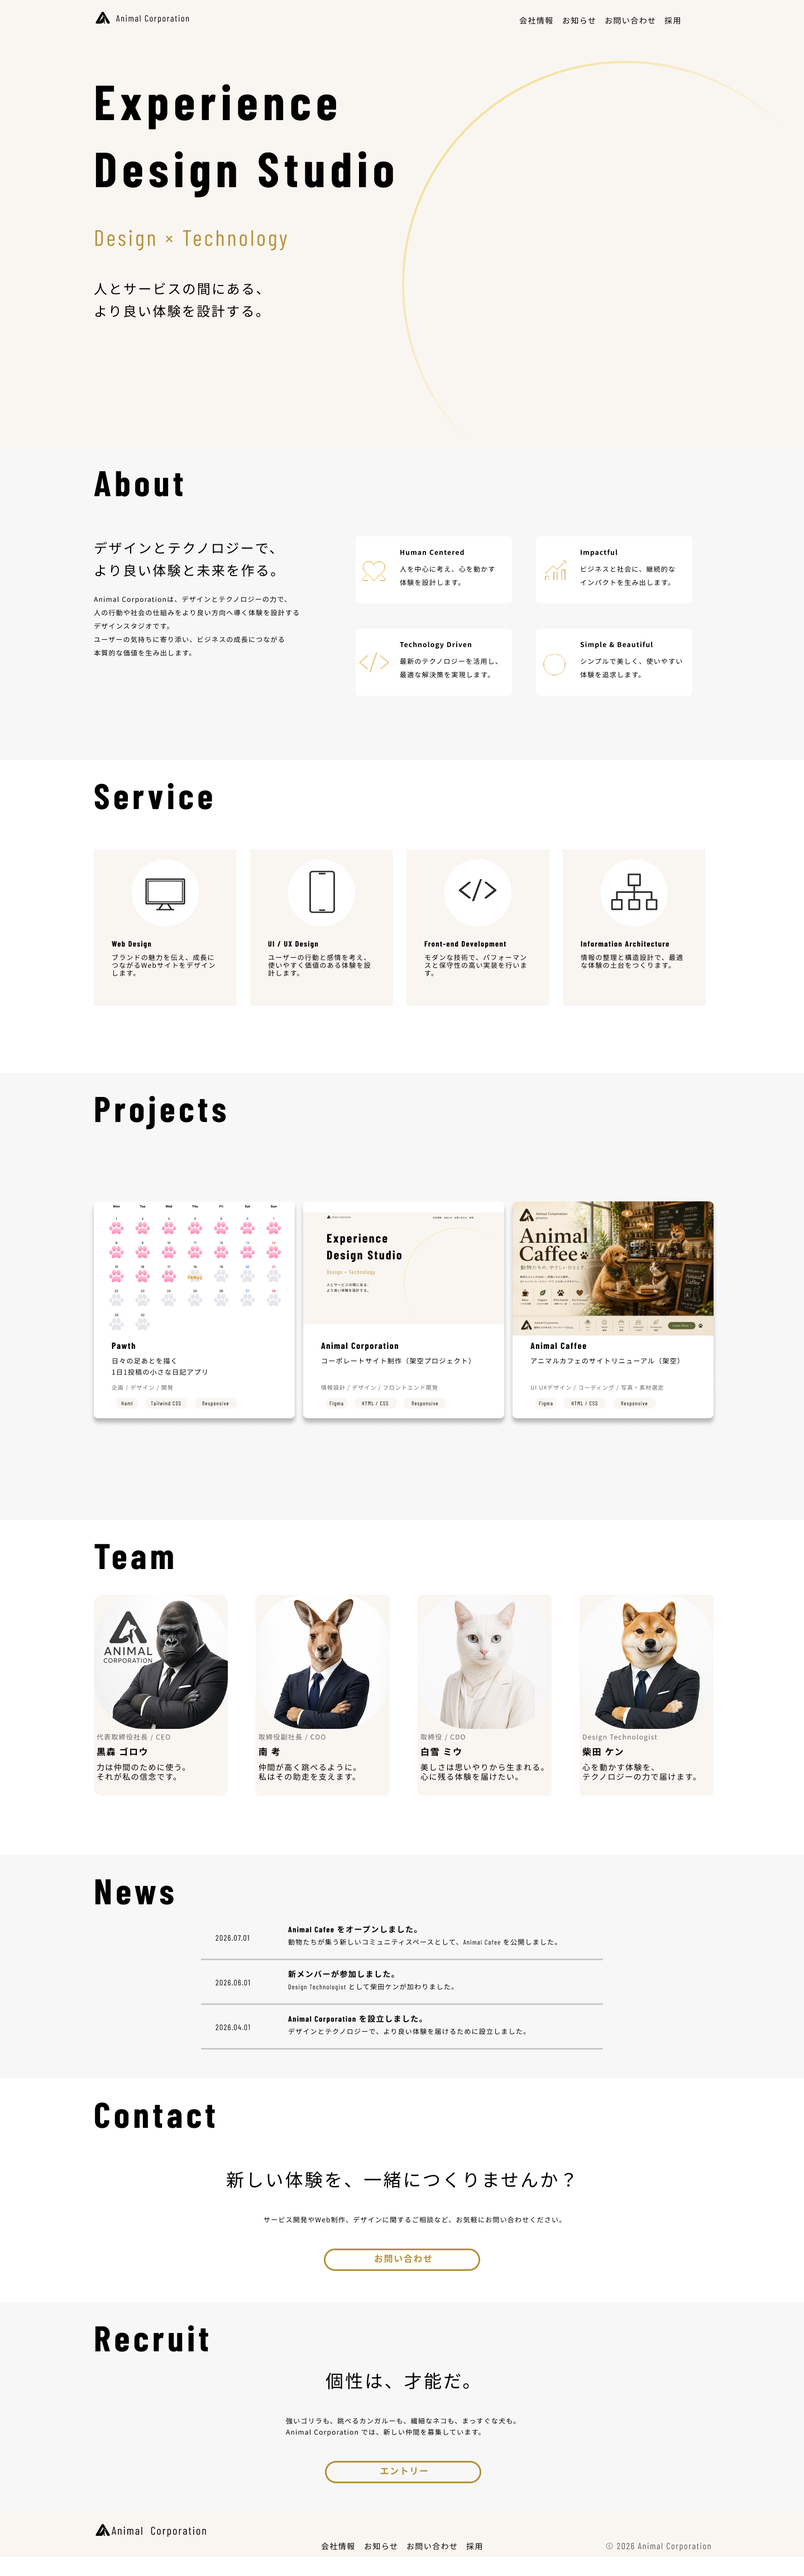
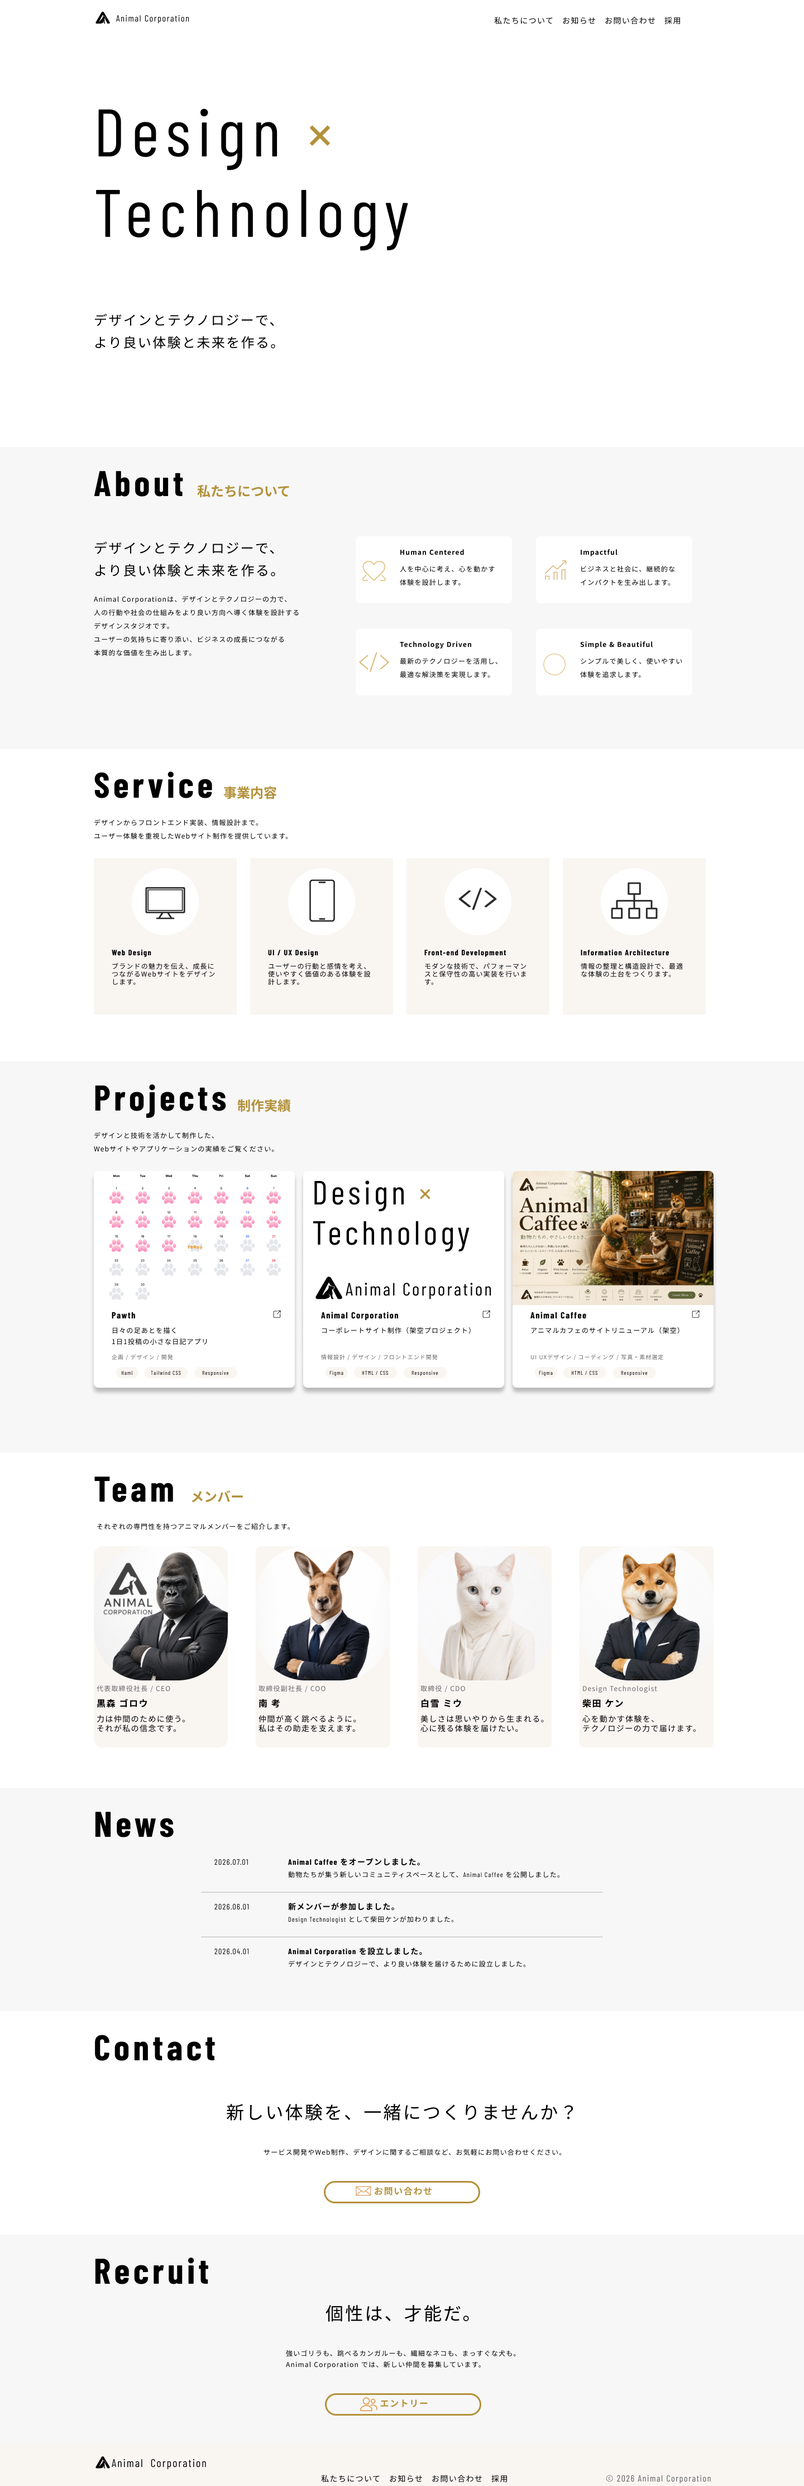
モックアップを更新

diff --git a/README.md b/README.md
@@ -2,6 +2,14 @@
 
 架空企業をテーマに制作するコーポレートサイトのデモプロジェクトです。
 
+## Overview
+
+架空のデザイン・テクノロジー企業「Animal Corporation」をテーマに制作したコーポレートサイトです。
+
+情報設計からワイヤーフレーム作成、モックアップ制作、フロントエンド実装までを一貫して行っています。
+
+ユーザーにとって分かりやすい情報構造と、シンプルで美しいデザインを意識して制作しています。
+
 ## Demo
 
 制作中
@@ -14,9 +22,16 @@
 
 ## Mockup
 
-2026-06-19 作成（制作中）
+2026-06-19 作成（2026-06-20 更新）
 
-![Wireframe](docs/mockup.png)
+![Mockup](docs/mockup.png)
+
+## Tech Stack
+
+- HTML
+- CSS
+- JavaScript
+- Figma
 
 ## License
 
